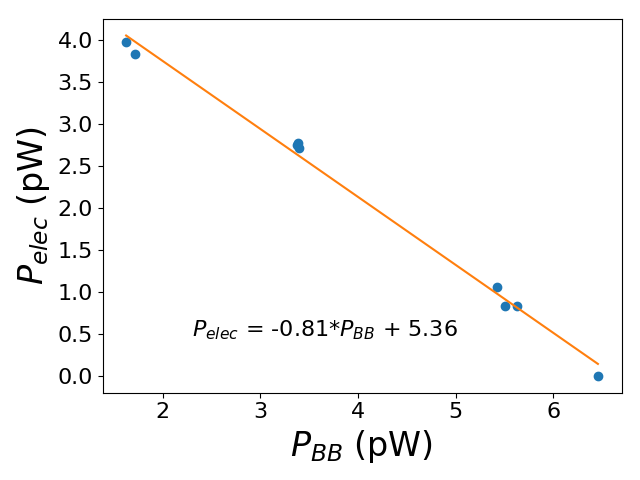
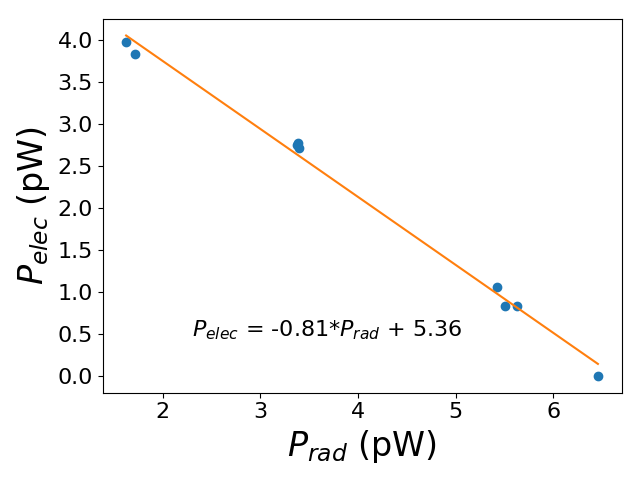
remake figure to say Prad instead of PBB.

Changed region(s): [[0.4375, 0.875, 0.6875, 0.9688], [0.5312, 0.6562, 0.7188, 0.7188]]

diff --git a/characterization.tex b/characterization.tex
@@ -534,7 +534,7 @@ The slope of the line is the optical efficiency, $\epsilon$.
 \includegraphics[width=0.49\columnwidth]{figures/blackbody_intensity_plot.png}
 \includegraphics[width=0.48\columnwidth]{figures/SqCh2_Ch1_p_vs_p.png}
 \caption{Left: Blackbody radiation as a function of temperature. The \ac{EBEX} 150~GHz band is marked by the black vertical lines. Right: Wafer~150-01 bolometer~8-04 electrical power as function of blackbody power. The slope, $0.8$, is the detector's optical efficiency. 
-\textcolor{red}{remake this figure st the x-axis is labeled Prad not PBB!}
+%\textcolor{red}{remake this figure st the x-axis is labeled Prad not PBB!}
 \label{fig:pelec_vs_popt} }
 \end{center}
 \end{figure}
